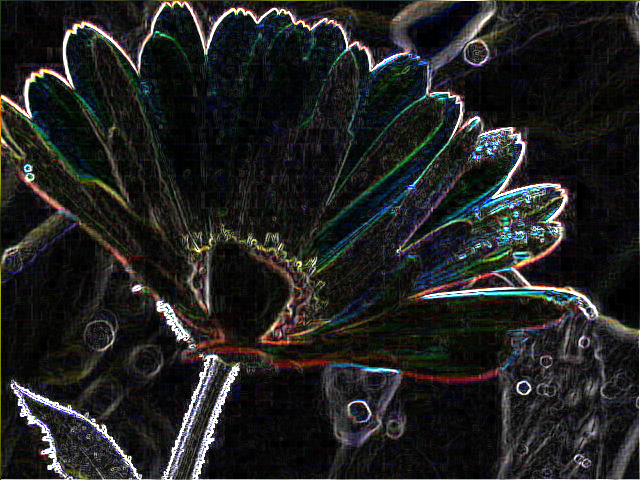
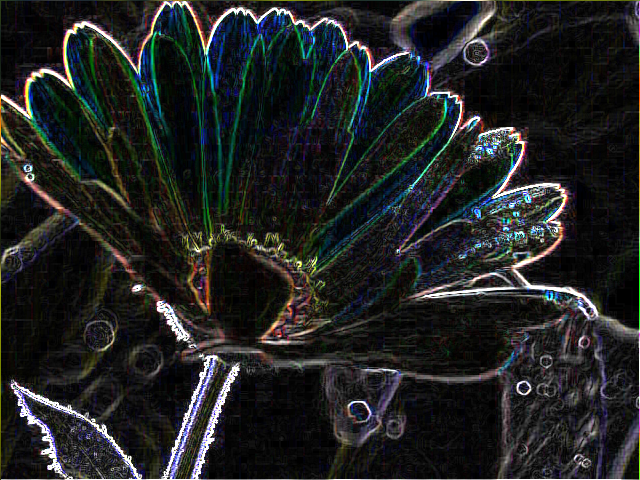
untill func add

diff --git a/spatial/spatial.go b/spatial/spatial.go
@@ -1,6 +1,7 @@
 package spatial
 
 import (
+	"fmt"
 	"image"
 	"image/color"
 	"localhost/effector/ex"
@@ -97,14 +98,14 @@ func PrewittFunc(img image.Image, x, y int) color.RGBA64 {
 	}
 	// フィルタの情報の重み
 	xFilter := [][]int{
-		{1, 0, -1},
-		{1, 0, -1},
-		{1, 0, -1},
-	}
-	yFilter := [][]int{
 		{-1, -1, -1},
 		{0, 0, 0},
 		{1, 1, 1},
+	}
+	yFilter := [][]int{
+		{1, 0, -1},
+		{1, 0, -1},
+		{1, 0, -1},
 	}
 	//情報の集約（フィルタ込み）
 	var rMd1, rMd2, gMd1, gMd2, bMd1, bMd2 int = 0, 0, 0, 0, 0, 0
@@ -133,5 +134,77 @@ func PrewittFunc(img image.Image, x, y int) color.RGBA64 {
 	green := getValue(gMd1, gMd2)
 	blue := getValue(bMd1, bMd2)
 	_, _, _, a := img.At(x, y).RGBA()
+	return color.RGBA64{red, green, blue, uint16(a)}
+}
+
+type Spatial struct {
+	img     image.Image
+	xFilter [3][3]float64
+	yFilter [3][3]float64
+	mdFunc  func(md1, md2 float64) uint16
+}
+
+//PrewittFunc は画像のあるXY近傍9PxにPrewittフィルターをかけて返す。
+func VirticalLineFunc(img image.Image, x, y int) color.RGBA64 {
+	xFilter := [3][3]float64{
+		// {-1 / 2, 1, -1 / 2},
+		// {-1 / 2, 1, -1 / 2},
+		// {-1 / 2, 1, -1 / 2},
+		{-0.5, 1, -0.5},
+		{-0.5, 1, -0.5},
+		{-0.5, 1, -0.5},
+	}
+	//情報の集約（フィルタ込み）
+	var rMd1, gMd1, bMd1 float64 = 0, 0, 0
+	for pX := 0; pX < 3; pX++ {
+		for pY := 0; pY < 3; pY++ {
+			r, g, b, _ := img.At(x+(pX-1), y+(pY-1)).RGBA()
+			rMd1 = rMd1 + xFilter[pY][pX]*float64(r)
+			gMd1 += xFilter[pY][pX] * float64(g)
+			bMd1 += xFilter[pY][pX] * float64(b)
+		}
+	}
+	mdFunc := func(md1 float64) uint16 {
+		gaso := ex.ColorWidth - int(md1)
+		if gaso > ex.ColorWidth {
+			gaso = ex.ColorWidth
+		} else if gaso < 0 {
+			gaso = 0
+		}
+		return uint16(gaso)
+	}
+	_, _, _, a := img.At(x, y).RGBA()
+
+	col := color.RGBA64{mdFunc(rMd1), mdFunc(gMd1), mdFunc(bMd1), uint16(a)}
+
+	// フィルタの絶対値取得
+	val := uint16(col.R * 1)
+	fmt.Printf("(%d:%d) %d:%d:%d", x, y, col.R, col.G, col.B)
+	return color.RGBA64{val, val, val, uint16(col.A)}
+}
+
+func (sp *Spatial) CreateColor(x, y int) color.RGBA64 {
+	if isRect(x, y, sp.img) == true {
+		r, g, b, a := sp.img.At(x, y).RGBA()
+		return color.RGBA64{uint16(r), uint16(g), uint16(b), uint16(a)}
+	}
+	//情報の集約（フィルタ込み）
+	var rMd1, rMd2, gMd1, gMd2, bMd1, bMd2 float64 = 0, 0, 0, 0, 0, 0
+	for pX := 0; pX < 3; pX++ {
+		for pY := 0; pY < 3; pY++ {
+			r, g, b, _ := sp.img.At(x+(pX-1), y+(pY-1)).RGBA()
+			rMd1 += sp.xFilter[pX][pY] * float64(r)
+			rMd2 += sp.yFilter[pX][pY] * float64(r)
+			gMd1 += sp.xFilter[pX][pY] * float64(g)
+			gMd2 += sp.yFilter[pX][pY] * float64(r)
+			bMd1 += sp.xFilter[pX][pY] * float64(b)
+			bMd2 += sp.yFilter[pX][pY] * float64(r)
+		}
+	}
+	// フィルタの絶対値取得
+	red := sp.mdFunc(rMd1, rMd2)
+	green := sp.mdFunc(gMd1, gMd2)
+	blue := sp.mdFunc(bMd1, bMd2)
+	_, _, _, a := sp.img.At(x, y).RGBA()
 	return color.RGBA64{red, green, blue, uint16(a)}
 }

diff --git a/effector.go b/effector.go
@@ -287,7 +287,7 @@ func AverageFilter(img image.Image, centerWeight float64) image.Image {
 	return icom.SimpleEffect(img, doFunc)
 }
 
-//AverageFilter は与えられた画像に対して積和演算から中央値を採用する。
+//MedianFilter は与えられた画像に対して積和演算から中央値を採用する。
 func MedianFilter(img image.Image) image.Image {
 	return icom.SimpleEffect(img, spatial.MedianFunc)
 }
@@ -295,4 +295,9 @@ func MedianFilter(img image.Image) image.Image {
 //PrewittFilter は与えられた画像に対してPrewittフィルターを適用する。
 func PrewittFilter(img image.Image) image.Image {
 	return icom.SimpleEffect(img, spatial.PrewittFunc)
+}
+
+//LineFilter は与えられた画像に対してPrewittフィルターを適用する。
+func LineFilter(img image.Image) image.Image {
+	return icom.SimpleEffect(img, spatial.VirticalLineFunc)
 }

diff --git a/spatial/spatial_test.go b/spatial/spatial_test.go
@@ -27,3 +27,17 @@ func Test_AverageAndMedianFunc(t *testing.T) {
 		t.Error("val err")
 	}
 }
+
+func Test_VirticalLineFunc(t *testing.T) {
+	img := testutill.CreateImg(5, 5)
+
+	rgba := image.NewRGBA64(img.Bounds())
+	icom.ImageLoop(img, func(x int, y int) {
+		val := uint16(x)
+		rgba.Set(x, y, color.RGBA64{val, val, val, 1})
+	})
+	col := VirticalLineFunc(rgba, 1, 1)
+	if col.R != 0 || col.G != 0 || col.B != 0 {
+		t.Errorf("val err:%d,%d,%d", col.R, col.G, col.B)
+	}
+}

diff --git a/effector_out_test.go b/effector_out_test.go
@@ -25,6 +25,7 @@ func Test_Effect(t *testing.T) {
 	outputFile("avefil", AverageFilter(in, 1.2))
 	outputFile("media", MedianFilter(in))
 	outputFile("prewitt", PrewittFilter(in))
+	outputFile("vlinefil", LineFilter(in))
 }
 
 func Test_SizeChange(t *testing.T) {
